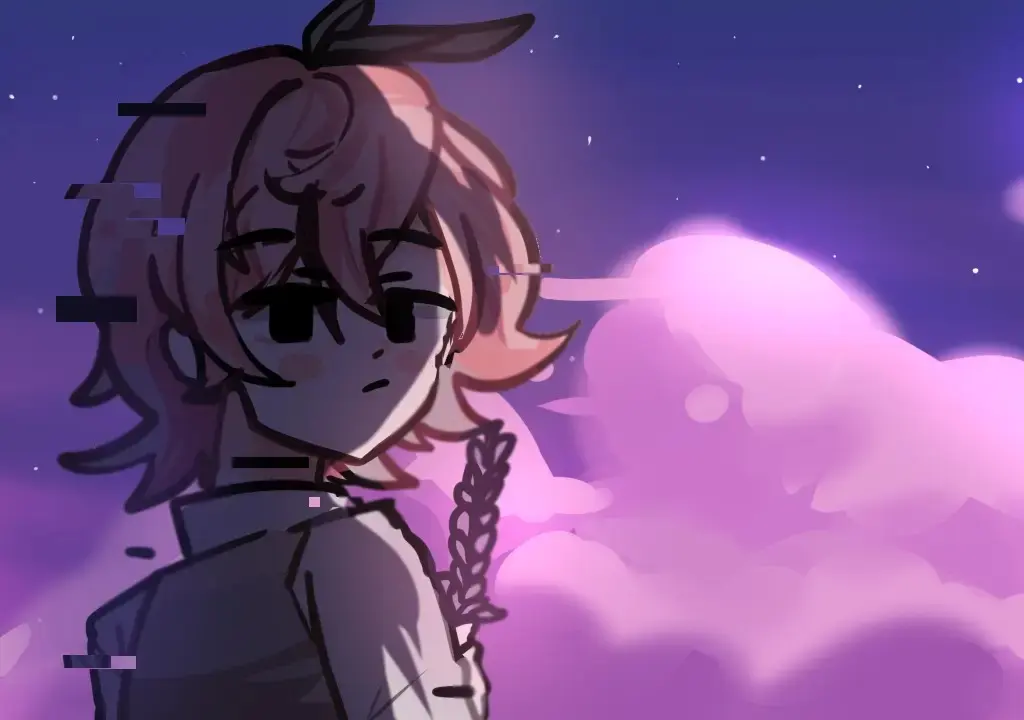
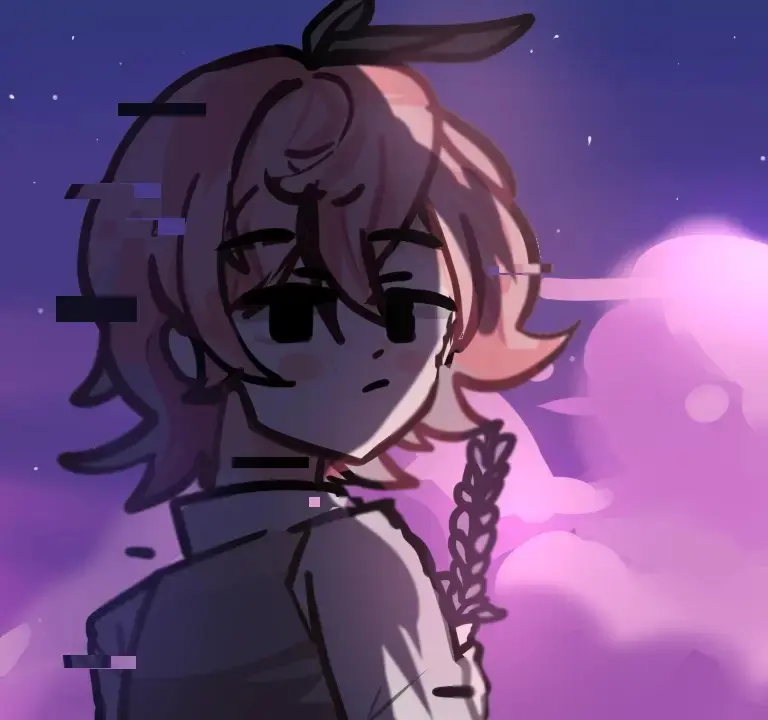
Add files via upload

diff --git a/style.css b/style.css
@@ -42,6 +42,10 @@ body {
     url(images/abyssal-fate-bg.webp) left center / 100% auto no-repeat;
 }
 
+.main-image {
+    display: none;
+}
+
 .main-text {
     position: relative;
     display: flex;
@@ -233,29 +237,44 @@ body {
 
 @media (min-width: 375px) and (max-width: 768px) {
     .main-section {
-        justify-content: flex-end;
+        display: flex;
+        flex-direction: column;
+        position: static;
     }
     .main-section::before {
-        background: linear-gradient(
-            transparent 0%,
-            transparent 55%,
-            var(--color-purple) 55.5%,
-            var(--color-purple) 100%
-        ),
-        url(images/abyssal-fate-mobile-bg.webp) top center / 160% no-repeat;
+        background: none;
+        display: none;
+    }
+    .main-image {
+        display: block;
+        margin-bottom: -1rem;
+    }
+    .main-image img {
+        width: 100%;
+        object-fit: cover;
+        min-height: 50vh;
+        background-size: cover;
     }
     .main-text {
-        width: 100%;
+        background: var(--color-dark-lavender);
         font-size: 10px;
-        margin: 0 1.5rem 1.8rem 0;
+        justify-content: center;
+        padding: 2rem;
+        min-height: 55vh;
+        position: static;
+        margin: 0;
         gap: 10px;
     }
     .main-text h1 {
         width: 80%;
     }
     .main-text a {
-        width: 40%;
+        width: 50%;
         font-size: 15px;
+        margin-right: 4rem;
+    }
+    .main-text a:last-of-type {
+        margin-right: 8rem;
     }
     .game-des {
         background: url(images/main-mobile-bg.webp) center no-repeat;

diff --git a/index.html b/index.html
@@ -15,6 +15,9 @@
 </head>
 <body>
     <div class="main-section">
+        <div class="main-image">
+            <img src="images/abyssal-fate-mobile-bg.webp" alt="Abyssal Fate Game">
+        </div>
         <div class="main-text">
             <p>[ لعبة مستقلة · رواية ]</p>
             <h1>مصير سحيق: أحلام ارجوانية</h1>